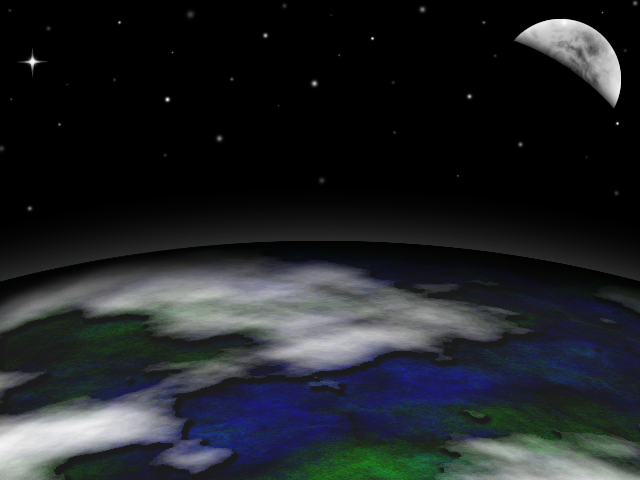
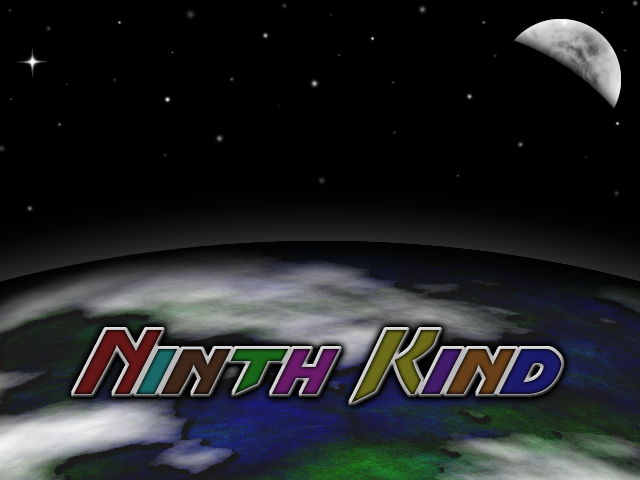
Menu images (not working)

Changed region(s): [[0.0938, 0.6562, 0.9062, 0.875]]

diff --git a/gamelib/menu.py b/gamelib/menu.py
@@ -104,17 +104,25 @@ class MainMenuScene(MenuScene):
     def __init__(self, game, name, index, config=None):
         self.background = data.load_image('menu.png')
 
+        self.logoStep = 750
+        self.logoImages = []
+        self.logoNumber = 0
+        self.logoTime = pygame.time.get_ticks() + self.logoStep
+
+        for i in range(8):
+            self.logoImages.append(data.load_image('menu' + str(i + 1) + '.png'))
+
         menus = (('Start Game', self.play),
                  ('How to play', self.howto),
                  ('Credits', self.credits),
                  ('Exit', self.exit))
 
         MenuScene.__init__(self, game, name, index, config, (320, 270), menus)
-    
+
     def start(self):
         if self.game.channel != None:
             self.game.channel.unpause()
-        
+
     def end(self):
         if self.game.channel != None :
             self.game.channel.pause()
@@ -132,9 +140,20 @@ class MainMenuScene(MenuScene):
     def exit(self):
         self.game.end()
 
+    def update(self):
+        super(MainMenuScene, self).update()
+
+        if pygame.time.get_ticks() > self.logoTime:
+            self.logoTime = pygame.time.get_ticks() + self.logoStep
+            self.logoNumber += 1
+
+            if self.logoNumber > 8:
+                self.logoNumber = 0
+
     def draw(self, screen):
         screen.blit(self.background, (0, 0))
-        
+        screen.blit(self.logoImages[self.logoNumber], (50, 310))
+
         super(MainMenuScene, self).draw(screen)
 
 class PauseMenuScene(MenuScene):
